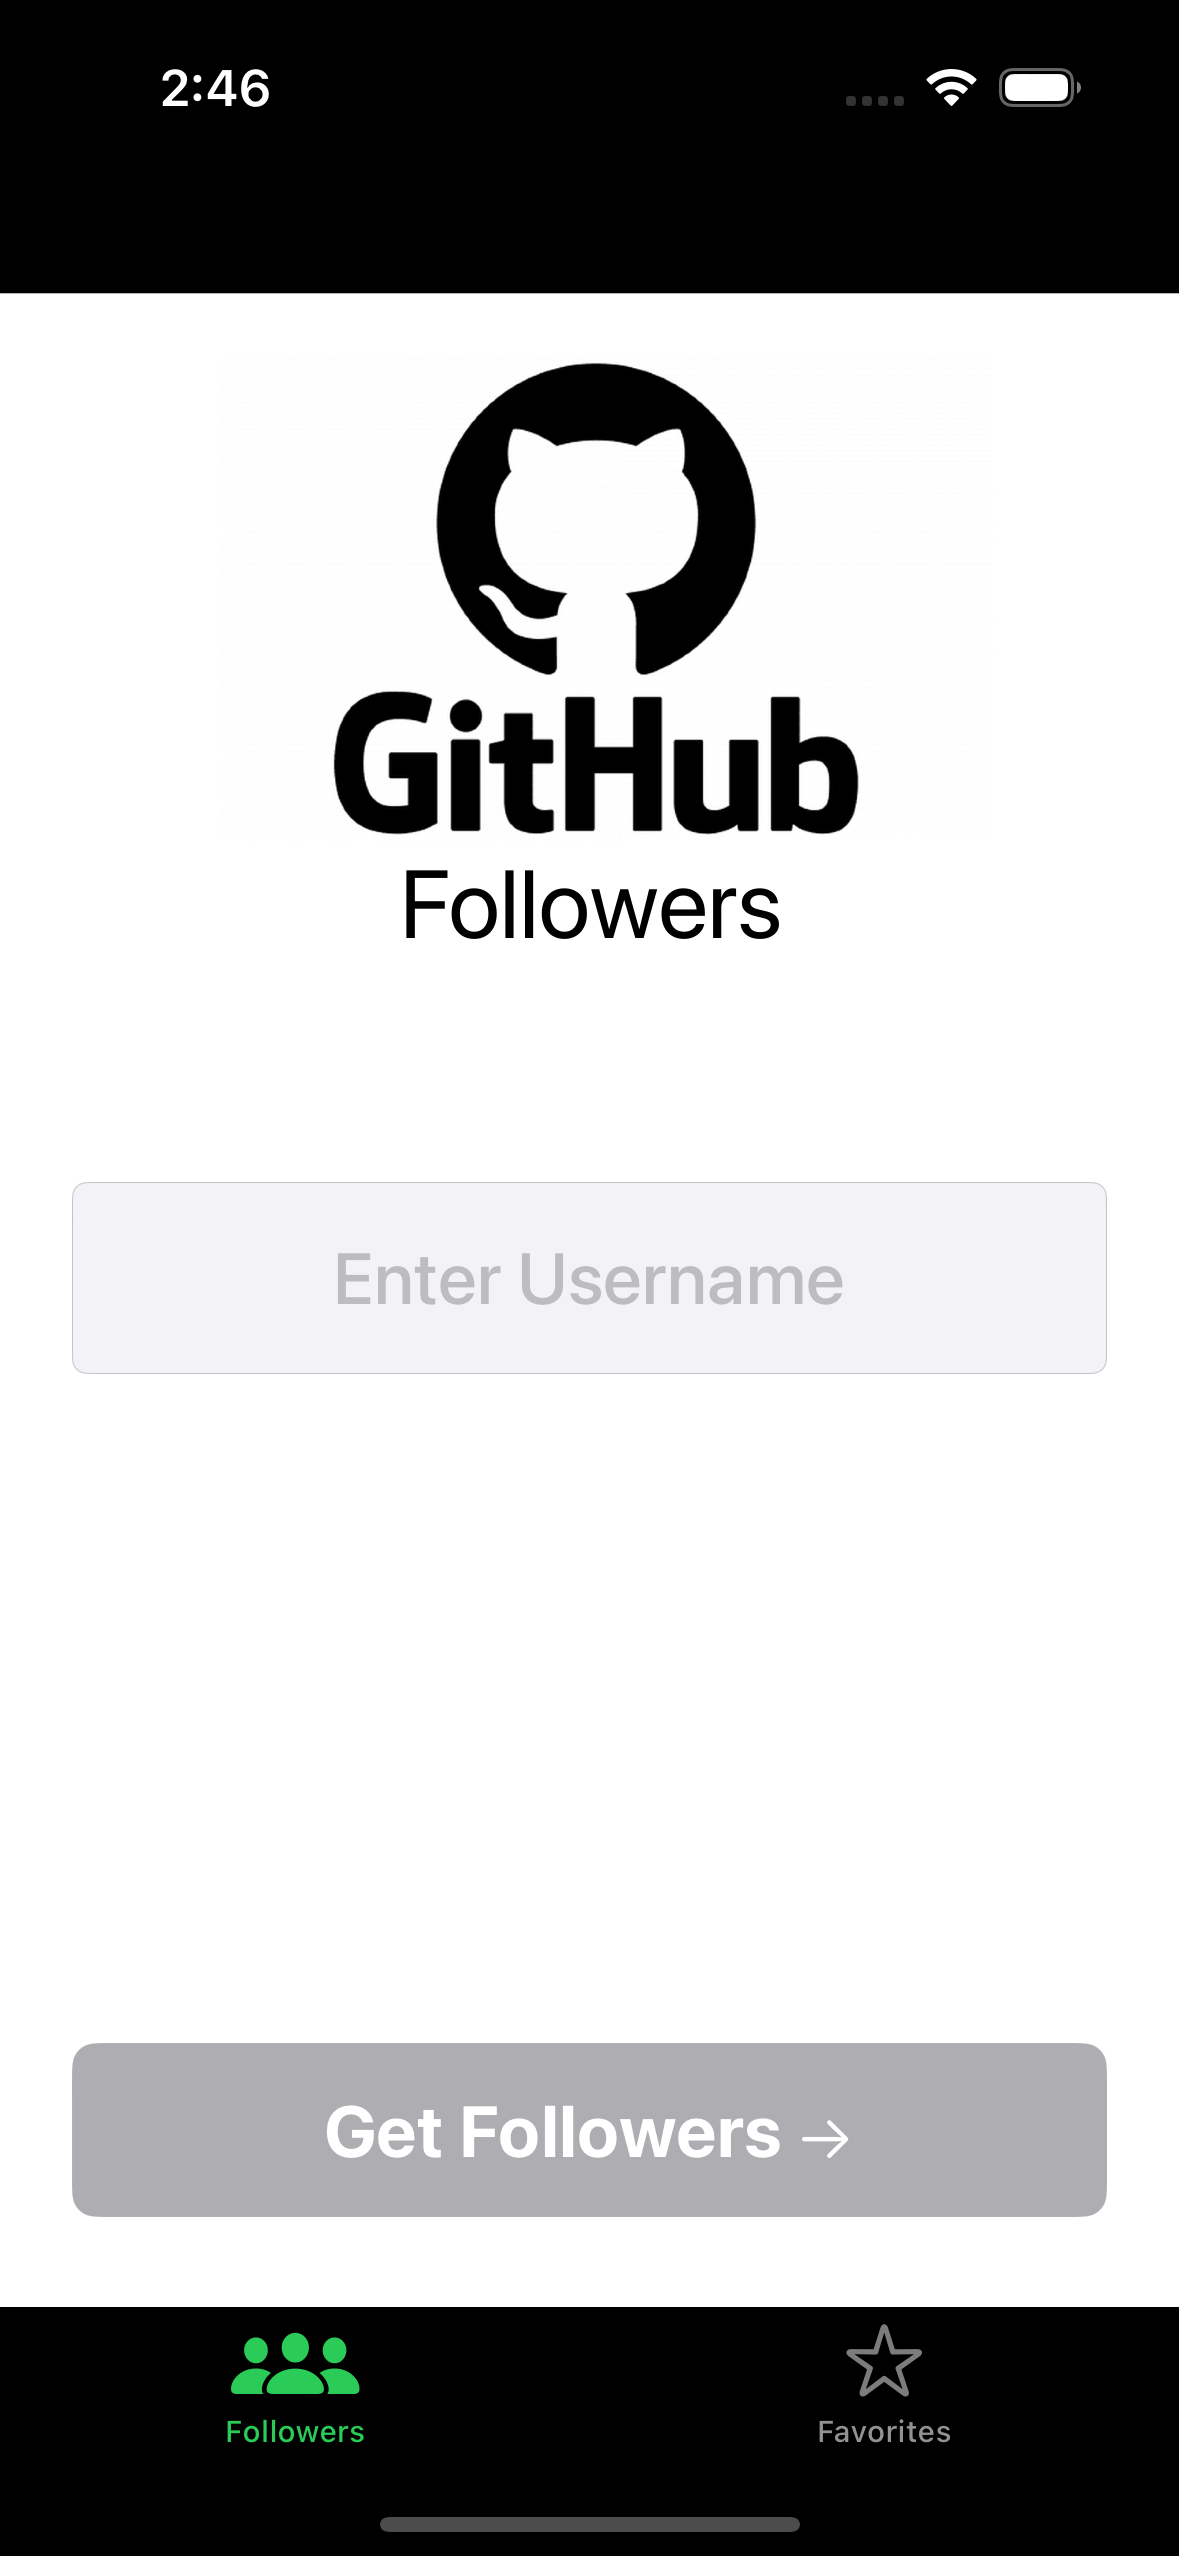
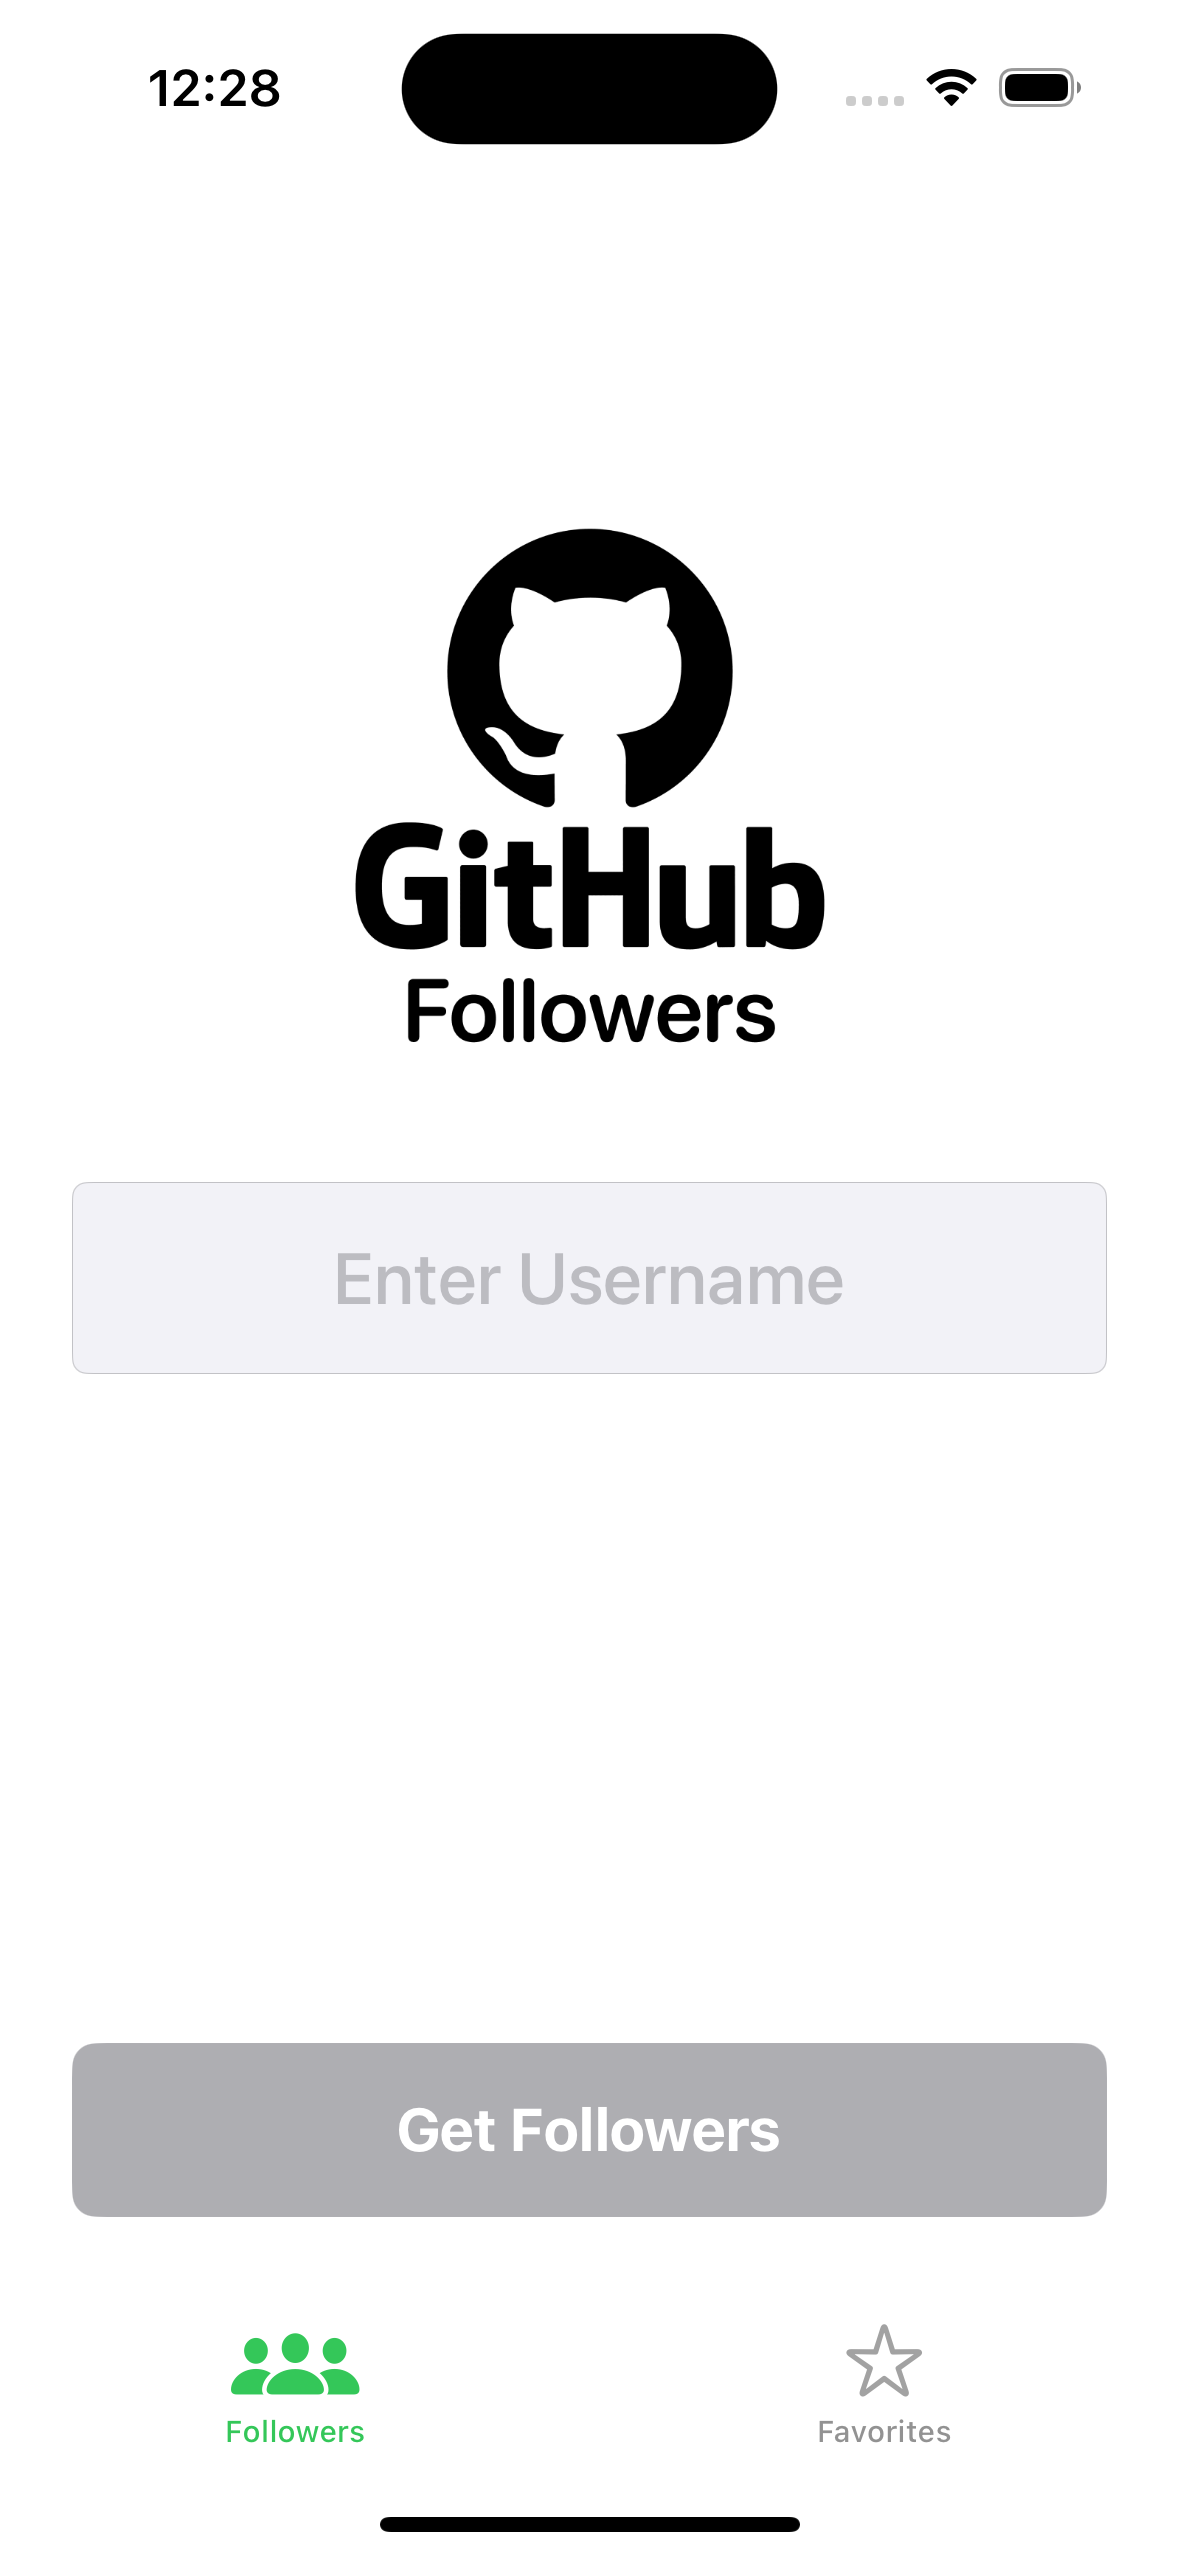
Update Readme and screenshots

Changed region(s): [[0.0, 0.0, 1.0, 0.4327], [0.0, 0.8963, 1.0, 1.0], [0.2748, 0.8036, 0.6718, 0.8654]]

diff --git a/README.md b/README.md
@@ -5,35 +5,39 @@ I published the design on [Figma Community](figma.com/@aifedorov).
 A GitHubFollowers iOS app written in `Swift` using `MVP` architectural pattern.
 
 ## Frameworks/Technologies
-- [x] 100% programmatic UI using `UIKit` and `NSLayoutAnchor`
-- [x] No 3rd party libraries
-- [x] iOS 14.0 or higher
-- [x] Custom design for `Tab bar` and `Navigation Bar`
-- [x] `UITextField` with validation using `NSPredicate`
-- [x] `UICollectionView` with `Diffable Data Source` and `refresh control`
-- [ ] `UITableView` with `Diffable Data Source`
-- [x] `Swift Concurrency (async/await)` for network
-- [x] Using `Codable` for encoding and decoding `JSON`
-- [x] Error handling and display for user
-- [x] Caching image using `NSCache`
-- [ ] Caching `JSON` data on disk
-- [ ] Support Dark Mode
-- [ ] Observing internet connection
-- [ ] Unit tests
+
+- [x] 100% programmatic UI using `UIKit` and `NSLayoutAnchor`.
+- [x] No 3rd party libraries.
+- [x] iOS 14.0 or higher.
+- [x] Custom design for `UITabBar` and `UINavigationBar`.
+- [x] `UITextField` with validation using `NSPredicate`.
+- [x] `UICollectionView` and `UITableView` with `Diffable Data Source`.
+- [x] `UISearchController` for searching users in the followers list.
+- [x] `Swift Concurrency (async/await)` for the network.
+- [x] Using `Codable` for encoding and decoding `JSON`.
+- [x] Error handling and displaying user fullscreen or alert.
+- [x] Caching image using `NSCache`.
+- [ ] Caching favorites on disk.
+- [ ] Caching favorites in `Core Data`.
+- [ ] Supporting Dark Mode.
+- [ ] Observing internet connection status.
+- [ ] Unit tests.
+- [ ] UI/UISnapshot tests.
 
 ## Getting Started
 
-1. `git clone https://github.com/aifedorov/GitHubFollowers.git`
-2. `cd GitHubFollowers`
-3. Open `GitHubFollowers.xcodeproj` in Xcode 15.0 or higher
+1. `git clone https://github.com/aifedorov/GitHubFollowers.git`.
+2. `cd GitHubFollowers`.
+3. Open `GitHubFollowers.xcodeproj` in Xcode 15.0 or higher.
 
 ## Screenshots
+
 ![Search Screen](Resources/search_screenshot.png)
 ![Search Result Scree](Resources/search_result_screenshot.png)
 
 ## Contributing
 
-Please feel free to help out with this project! If you see something that could be made better or want a new feature, open up an issue or send a Pull Request! I don't really plan on putting this out on the App Store, but I think it's a great learning resource for those interested in iOS development.
+Please feel free to help out with this project! If you see something that could be made better or want a new feature, open up an issue or send a Pull Request! I don't plan on putting this out on the App Store, but I think it's a great learning resource for those interested in iOS development.
 
 ## Reach me
 
